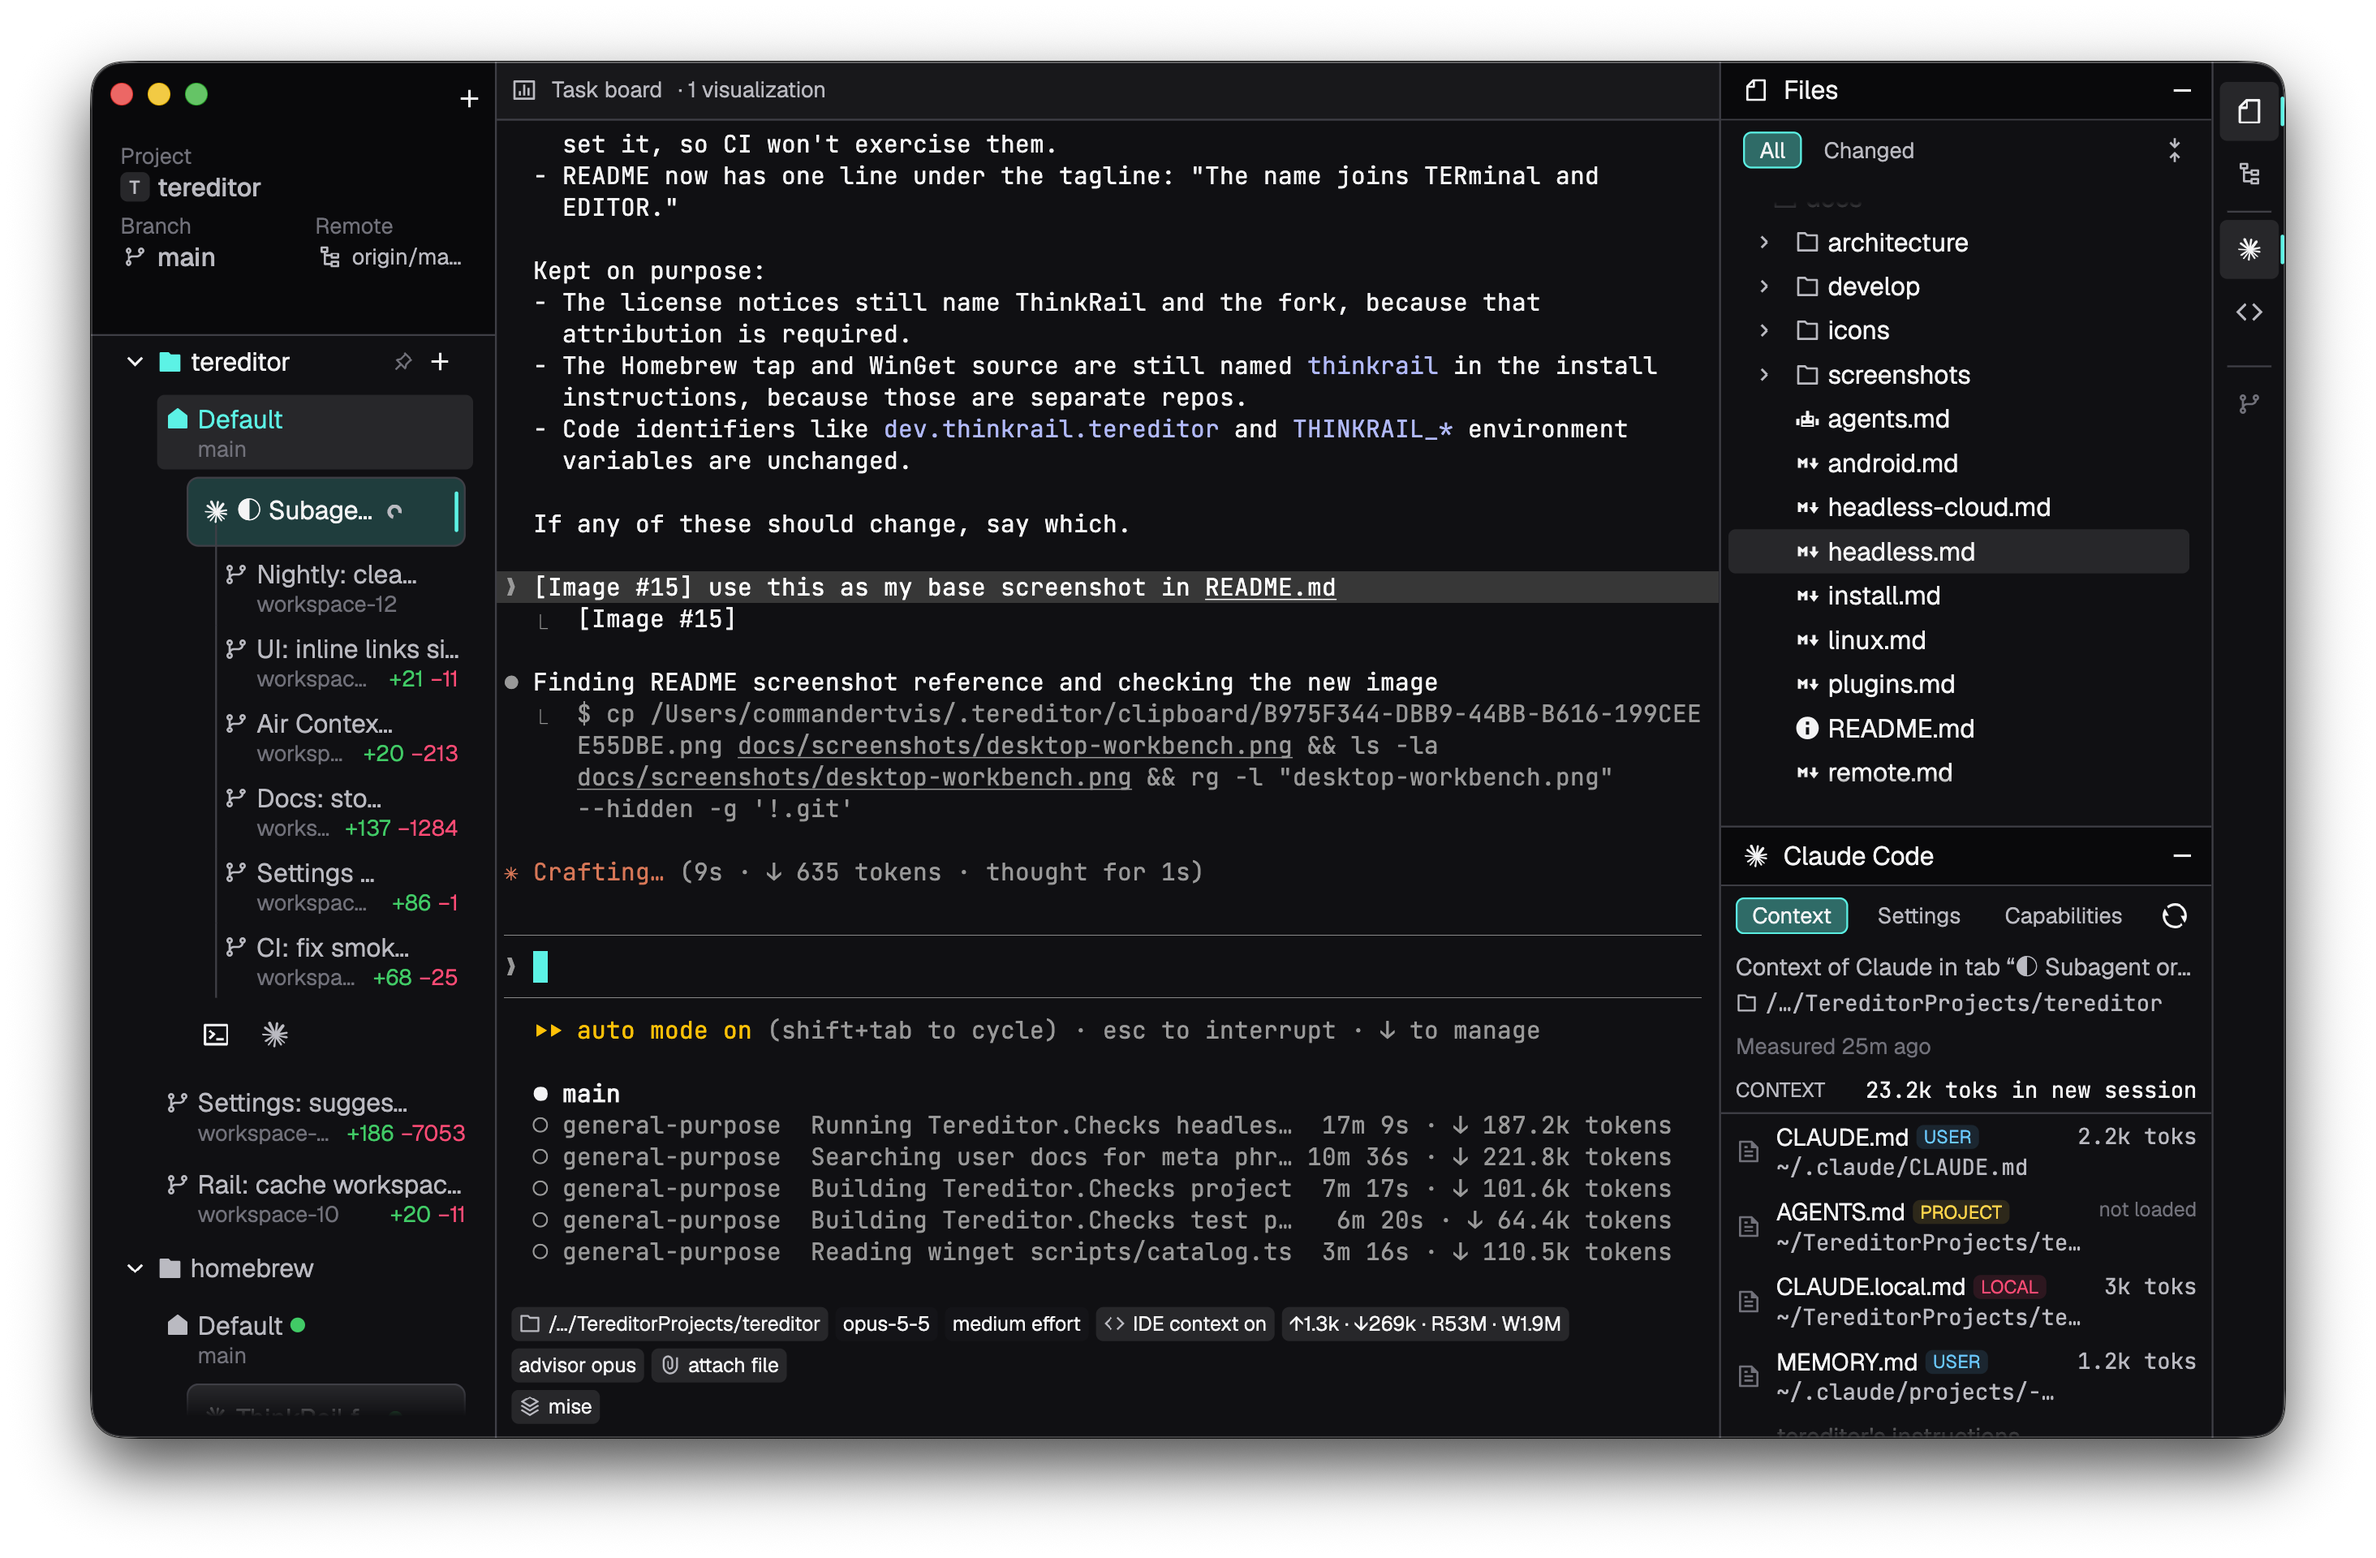
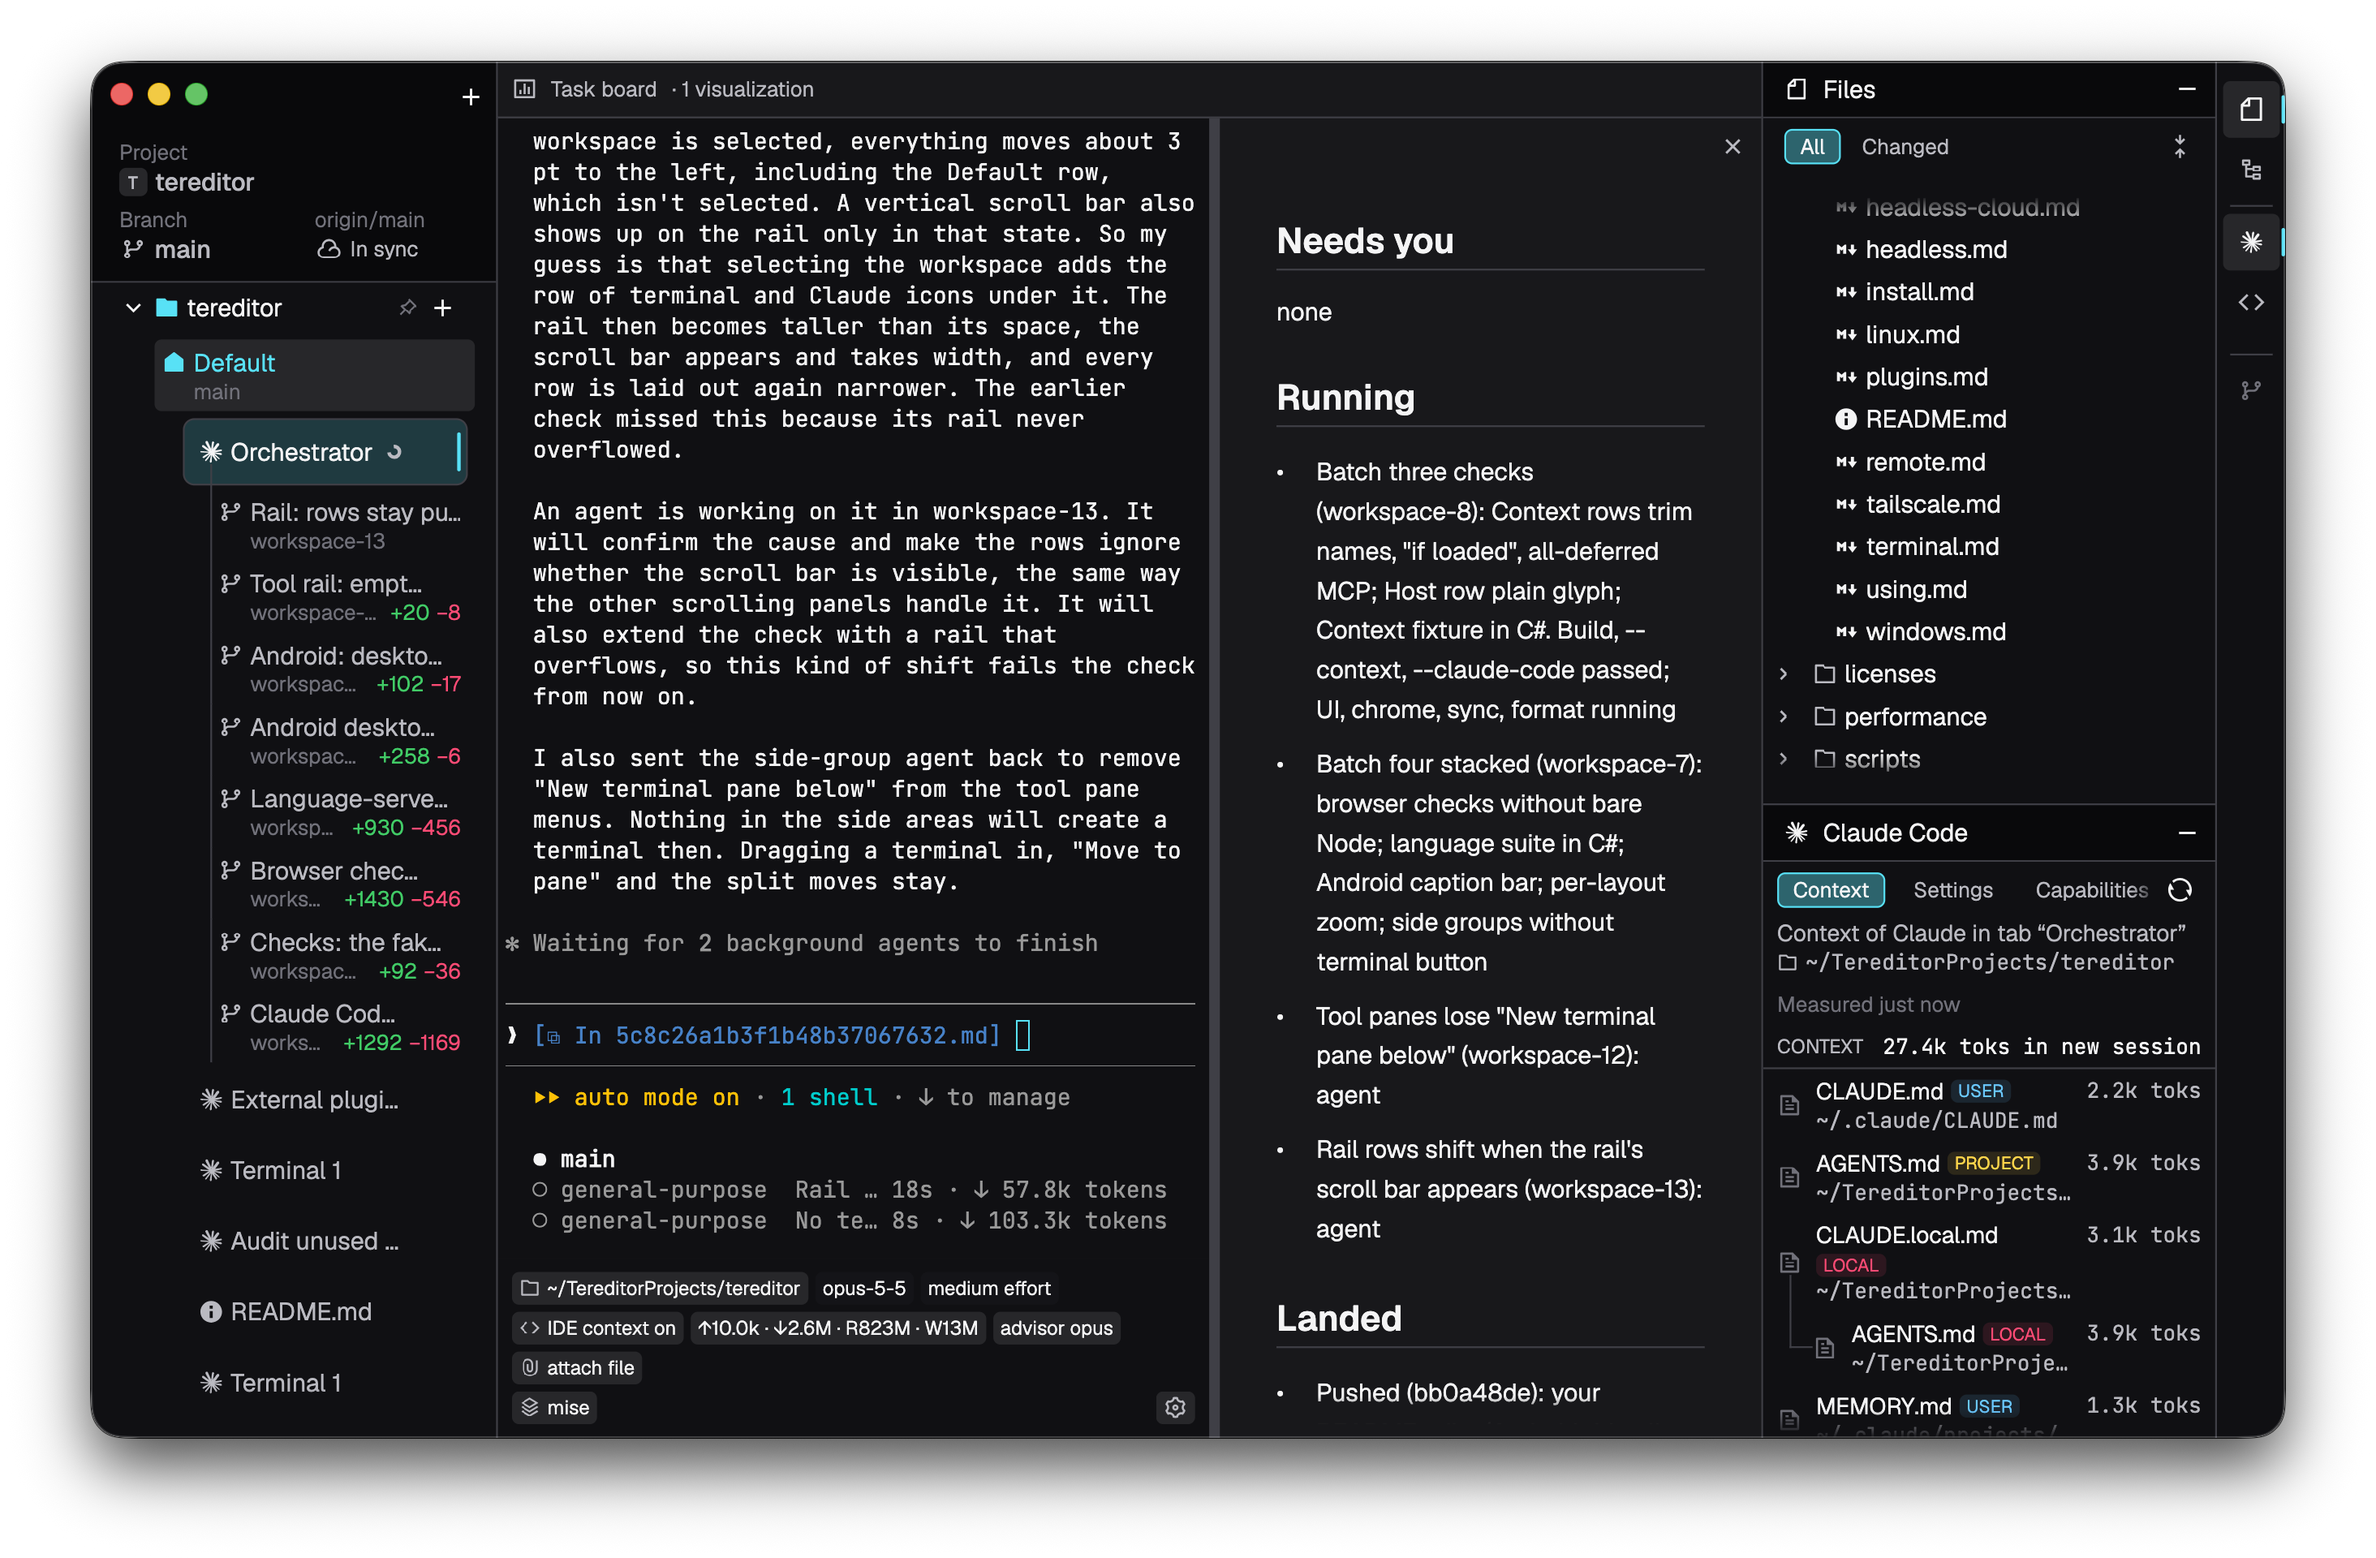
Docs: a new main screenshot
Claude-Session: https://claude.ai/code/session_01GmX4pKHZbAtNqMS8e55WYC

diff --git a/README.md b/README.md
@@ -4,7 +4,7 @@
 
 Keeps your CLI. Adds what's missing.
 
-<img src="docs/screenshots/desktop-workbench.png" alt="The tereditor workbench: projects and agent worktrees with their diff counts on the left, an orchestrating Claude Code terminal with its running subagents in the centre, the file tree and the Claude Code context pane on the right" width="900">
+<img src="docs/screenshots/desktop-workbench.png" alt="The tereditor workbench: projects and agent worktrees with their diff counts on the left, an orchestrating Claude Code terminal and its task board in the centre, the file tree and the Claude Code context pane on the right" width="900">
 
 > [!NOTE]
 > tereditor is a prototype. The desktop app targets macOS first, and Windows, Linux and Android builds ship too.
